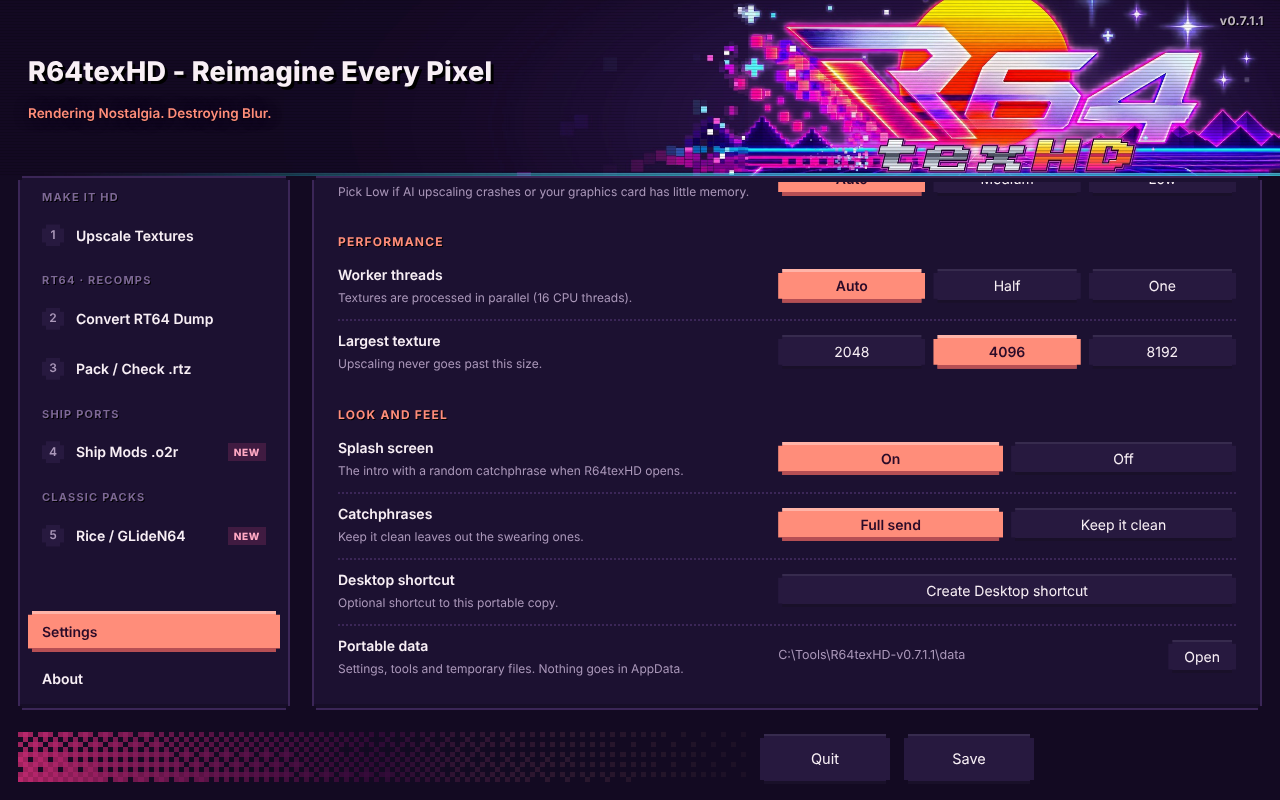
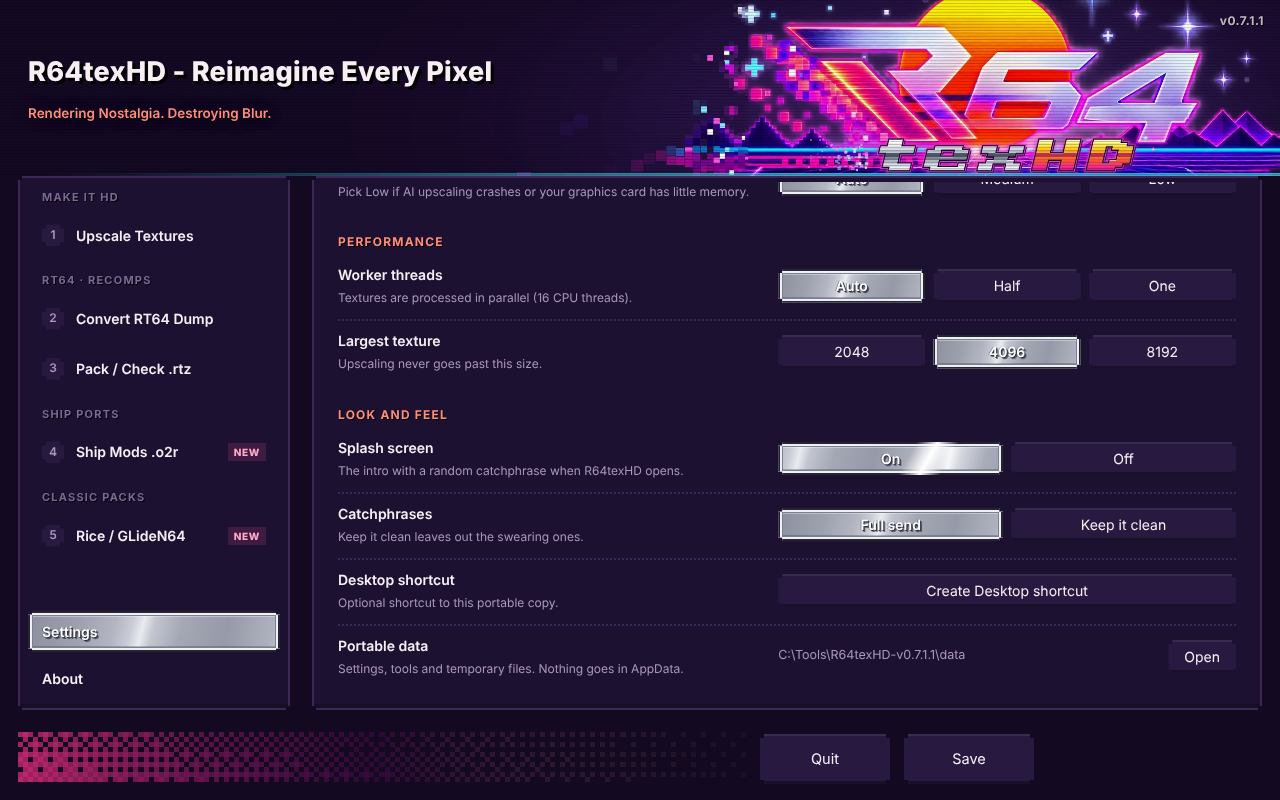
Silver pixel-metal buttons in place of the peach ones
The selected menu item, chosen options, primary buttons and the big Run
button are now brushed-silver plates like a pixel-art menu bar: diagonal
hard-edged light streaks on mid-grey metal, a bright inner rim inside a
dark pixel outline, white text with a dark pixel shadow, and a shine that
sweeps across on hover (and every few seconds on Run). Pressed buttons
sink in. The font is unchanged. README screenshots refreshed.

Claude-Session: https://claude.ai/code/session_01MGmgufkY67hNwJ4dKZUjyJ

diff --git a/app/ui/index.html b/app/ui/index.html
@@ -323,6 +323,44 @@ header::after { content: ""; position: absolute; inset: 0; pointer-events: none;
 .hdr-text, .ver { z-index: 3; }
 .welcome-art { display: block; width: 100%; height: auto; max-height: 230px; object-fit: cover; margin: 0 0 18px; image-rendering: pixelated;
   clip-path: var(--notch); box-shadow: inset 0 0 0 2px var(--line); }
+
+/* ================================================================ silver pixel buttons
+   Polished-metal plates in the style of a pixel-art menu bar: diagonal light streaks on brushed
+   silver, a bright inner rim, a dark pixel outline, chunky bevels, and a shine that sweeps across.
+   Used for the selected / main buttons (menu item, chosen options, primary buttons, Run). */
+:root {
+  /* brushed silver, mid-grey like the reference, with hard-edged (pixel) light streaks */
+  --silver: linear-gradient(104deg,
+    #8b8f9d 0%, #9ea2af 10%, #b3b6c2 16%, #c9ccd5 19%, #e9ebf0 21%, #c2c5cf 23%, #a4a8b5 28%,
+    #969aa8 36%, #aeb1bd 44%, #d5d8df 49%, #f6f7fa 51%, #d5d8df 53%, #a9adb9 58%,
+    #979ba9 66%, #a8acb8 74%, #cfd2da 80%, #f0f1f5 82.5%, #c0c3cd 85%, #9a9eab 92%, #8a8e9c 100%);
+  --silver-edge: inset 0 0 0 2px #23252f, inset 0 0 0 4px #eef0f5, inset 0 0 0 5px #7b7f8e,
+                 inset 0 6px 0 0 rgba(255,255,255,.35), inset 0 -6px 0 0 rgba(40,42,54,.28);
+  --silver-text: 1px 1px 0 #2f3240, 2px 2px 0 rgba(28,30,40,.55), -1px 0 0 rgba(28,30,40,.35);
+}
+nav button.active, .seg button.on, .seg.modes button.on, .btn.primary, .card:not(.idle):not(.error) .btn.primary, .go:not(.cancel) {
+  position: relative; overflow: hidden; isolation: isolate;
+  background: var(--silver) !important; background-size: 220% 100% !important; background-position: 0% 0 !important;
+  color: #ffffff !important; text-shadow: var(--silver-text) !important;
+  box-shadow: var(--silver-edge) !important; filter: none;
+}
+nav button.active .n { background: rgba(42,45,56,.35); color: #fff; }
+nav button.active .new { background: rgba(42,45,56,.35); color: #fff; }
+/* the shine: a bright pixel streak that sweeps across on hover (and now and then on the Run button) */
+nav button.active::after, .seg button.on::after, .btn.primary::after, .go:not(.cancel)::after {
+  content: ""; position: absolute; top: 0; bottom: 0; left: -40%; width: 28%; z-index: -1; pointer-events: none;
+  background: linear-gradient(104deg, transparent 0, rgba(255,255,255,0) 20%, rgba(255,255,255,.85) 46%, #fff 50%, rgba(255,255,255,.85) 54%, rgba(255,255,255,0) 80%, transparent 100%);
+  transform: skewX(-18deg); opacity: 0; }
+nav button.active:hover::after, .seg button.on:hover::after, .btn.primary:hover::after, .go:not(.cancel):hover::after { animation: silver-sweep .7s steps(10) 1; }
+.go:not(.cancel)::after { animation: silver-sweep-pause 6s steps(60) 3.5s infinite; }
+@keyframes silver-sweep { 0% { left: -40%; opacity: 1; } 100% { left: 115%; opacity: 1; } }
+@keyframes silver-sweep-pause { 0% { left: -40%; opacity: 1; } 16% { left: 115%; opacity: 1; } 17%, 100% { left: 115%; opacity: 0; } }
+nav button.active:hover, .seg button.on:hover, .btn.primary:hover, .go:not(.cancel):hover { background-position: 30% 0 !important; }
+.btn.primary:active, .go:not(.cancel):active, .seg button.on:active {
+  transform: translateY(1px); box-shadow: inset 0 0 0 2px #2a2d38, inset 0 0 0 4px #c9ccd6, inset 0 0 0 5px #6e7282, inset 0 6px 0 0 rgba(40,42,54,.3) !important; }
+.go:not(.cancel) { font-size: 17px; }
+.btn.primary:disabled { filter: grayscale(.3) brightness(.85); }
+@media (prefers-reduced-motion: reduce) { nav button.active::after, .seg button.on::after, .btn.primary::after, .go::after { animation: none !important; } }
 </style>
 </head>
 <body>
